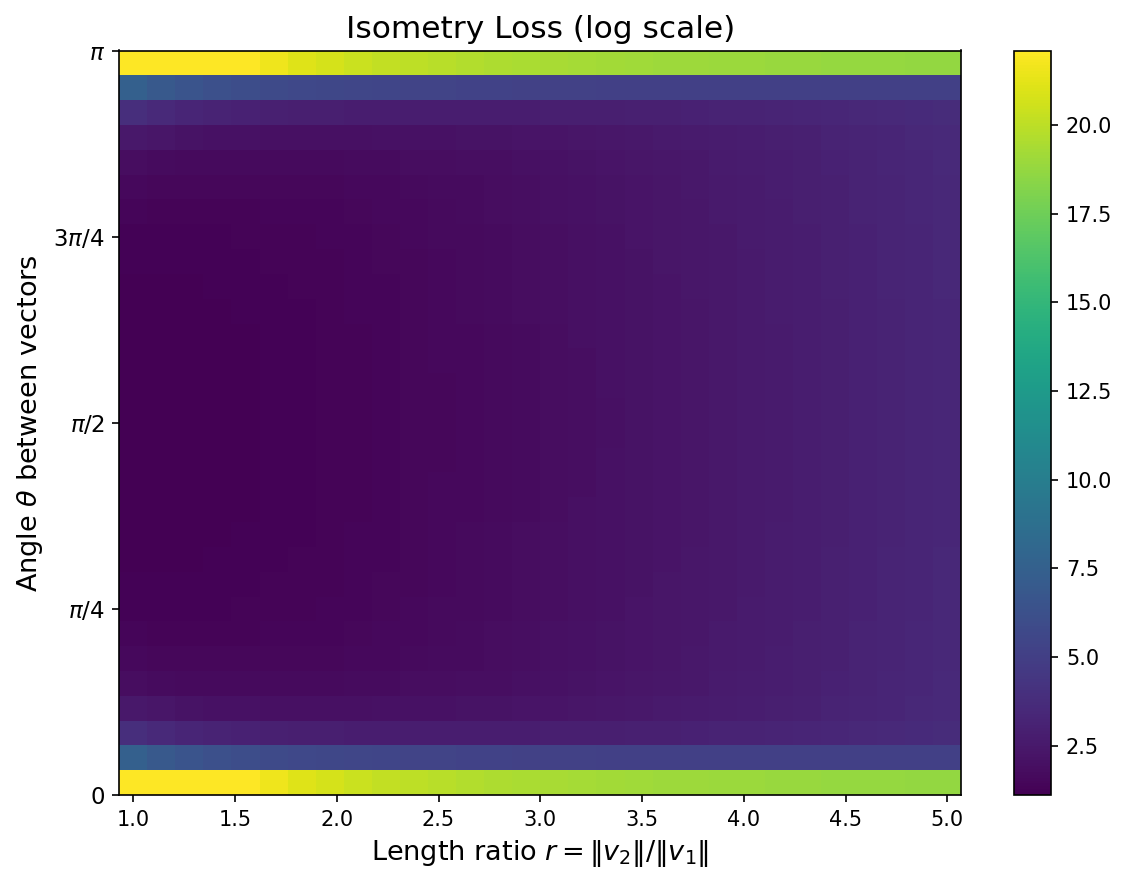
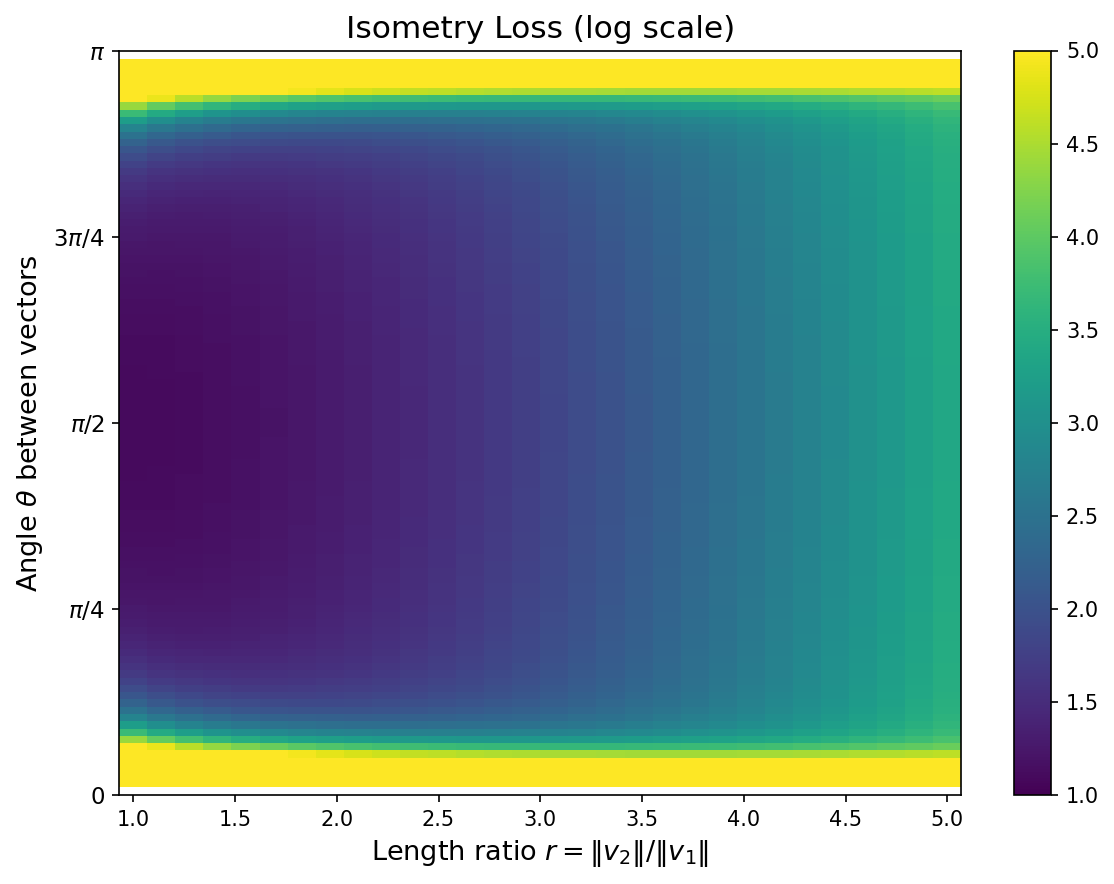
great plot

diff --git a/isometry_pursuit/exec/generate_basis_heatmap.py b/isometry_pursuit/exec/generate_basis_heatmap.py
@@ -22,25 +22,33 @@ from isometry_pursuit.transformation import exponential_transformation
 
 def compute_grids(n_ratio=40, n_angle=40, max_ratio=5.0):
     ratios = np.linspace(1.0, max_ratio, n_ratio)
-    # Exclude endpoints 0 and pi to avoid singular matrices
     angles = np.linspace(0.05, np.pi - 0.05, n_angle)
 
     isometry_loss_grid = np.full((n_angle, n_ratio), np.nan)
     group_lasso_grid = np.full((n_angle, n_ratio), np.nan)
+    nuclear_norm_grid = np.full((n_angle, n_ratio), np.nan)
+    distortion_grid = np.full((n_angle, n_ratio), np.nan)
 
     total = n_ratio * n_angle
     with tqdm(total=total, desc="Computing grid") as pbar:
         for i, theta in enumerate(angles):
             for j, r in enumerate(ratios):
-                # Build 2x2 matrix: columns are the two basis vectors
                 X = np.array([[1.0, r * np.cos(theta)],
                                [0.0, r * np.sin(theta)]])
 
-                # Isometry loss (applied to raw X)
+                svs = np.linalg.svd(X, compute_uv=False)
+                sv_max, sv_min = svs[0], svs[1]
+
                 loss_val = isometry_loss(X)
                 isometry_loss_grid[i, j] = loss_val if np.isfinite(loss_val) else np.nan
 
-                # Group lasso norm after basis pursuit on transformed X
+                nuclear_norm_grid[i, j] = sv_max + sv_min
+
+                if sv_min > 1e-14:
+                    distortion_grid[i, j] = sv_max / sv_min
+                else:
+                    distortion_grid[i, j] = np.nan
+
                 try:
                     X_t = exponential_transformation(X)
                     beta, _, obj = group_basis_pursuit(X_t, constraint_violation=0.0)
@@ -50,58 +58,58 @@ def compute_grids(n_ratio=40, n_angle=40, max_ratio=5.0):
 
                 pbar.update(1)
 
-    return ratios, angles, isometry_loss_grid, group_lasso_grid
+    return ratios, angles, isometry_loss_grid, group_lasso_grid, nuclear_norm_grid, distortion_grid
 
 
-def plot_heatmaps(ratios, angles, isometry_loss_grid, group_lasso_grid, output_dir):
+def plot_heatmaps(ratios, angles, isometry_loss_grid, group_lasso_grid, nuclear_norm_grid, distortion_grid, output_dir, log=True):
     os.makedirs(output_dir, exist_ok=True)
 
     angle_labels = [r"$0$", r"$\pi/4$", r"$\pi/2$", r"$3\pi/4$", r"$\pi$"]
     angle_ticks = [0, np.pi / 4, np.pi / 2, 3 * np.pi / 4, np.pi]
+    suffix = "_log" if log else "_raw"
+    scale_label = " (log scale)" if log else ""
 
-    fig, axes = plt.subplots(1, 2, figsize=(16, 6))
+    grids = [
+        (isometry_loss_grid, "Isometry Loss", f"basis_isometry_loss_heatmap{suffix}.png"),
+        (group_lasso_grid, "Group Lasso Norm", f"basis_group_lasso_heatmap{suffix}.png"),
+        (nuclear_norm_grid, "Nuclear Norm", f"basis_nuclear_norm_heatmap{suffix}.png"),
+        (distortion_grid, r"Distortion ($\sigma_{max}/\sigma_{min}$)", f"basis_distortion_heatmap{suffix}.png"),
+    ]
 
-    for ax, grid, title, fname in [
-        (axes[0], isometry_loss_grid, "Isometry Loss", "basis_isometry_loss_heatmap.png"),
-        (axes[1], group_lasso_grid, "Group Lasso Norm", "basis_group_lasso_heatmap.png"),
-    ]:
-        log_grid = np.log1p(grid)
-        vmin = np.nanpercentile(log_grid, 1)
-        vmax = np.nanpercentile(log_grid, 99)
-        im = ax.pcolormesh(
-            ratios, angles, log_grid,
-            cmap="viridis", vmin=vmin, vmax=vmax, shading="auto"
-        )
+    def _prepare(grid):
+        g = np.log1p(grid) if log else grid.copy()
+        finite = g[np.isfinite(g)]
+        vmin = np.percentile(finite, 1)
+        vmax = np.percentile(finite, 99)
+        if log:
+            vmin, vmax = 1.0, 5.0
+        return g, vmin, vmax
+
+    fig, axes = plt.subplots(2, 2, figsize=(16, 12))
+    for ax, (grid, title, _) in zip(axes.flat, grids):
+        g, vmin, vmax = _prepare(grid)
+        im = ax.pcolormesh(ratios, angles, g, cmap="viridis", vmin=vmin, vmax=vmax, shading="auto")
         plt.colorbar(im, ax=ax)
-        ax.set_xlabel(r"Length ratio $r = \|v_2\| / \|v_1\|$", fontsize=13)
-        ax.set_ylabel(r"Angle $\theta$ between vectors", fontsize=13)
-        ax.set_title(title + " (log scale)", fontsize=15)
+        ax.set_xlabel(r"Length ratio $r$", fontsize=12)
+        ax.set_ylabel(r"Angle $\theta$", fontsize=12)
+        ax.set_title(title + scale_label, fontsize=13)
         ax.set_yticks(angle_ticks)
-        ax.set_yticklabels(angle_labels, fontsize=11)
+        ax.set_yticklabels(angle_labels, fontsize=10)
 
     plt.tight_layout()
-    combined_path = os.path.join(output_dir, "basis_heatmaps.png")
+    combined_path = os.path.join(output_dir, f"basis_heatmaps{suffix}.png")
     plt.savefig(combined_path, dpi=150, bbox_inches="tight")
     plt.close()
     print(f"Combined heatmap saved to {combined_path}")
 
-    # Also save individual figures
-    for grid, title, fname in [
-        (isometry_loss_grid, "Isometry Loss", "basis_isometry_loss_heatmap.png"),
-        (group_lasso_grid, "Group Lasso Norm", "basis_group_lasso_heatmap.png"),
-    ]:
+    for grid, title, fname in grids:
         fig, ax = plt.subplots(figsize=(8, 6))
-        log_grid = np.log1p(grid)
-        vmin = np.nanpercentile(log_grid, 1)
-        vmax = np.nanpercentile(log_grid, 99)
-        im = ax.pcolormesh(
-            ratios, angles, log_grid,
-            cmap="viridis", vmin=vmin, vmax=vmax, shading="auto"
-        )
+        g, vmin, vmax = _prepare(grid)
+        im = ax.pcolormesh(ratios, angles, g, cmap="viridis", vmin=vmin, vmax=vmax, shading="auto")
         plt.colorbar(im, ax=ax)
         ax.set_xlabel(r"Length ratio $r = \|v_2\| / \|v_1\|$", fontsize=13)
         ax.set_ylabel(r"Angle $\theta$ between vectors", fontsize=13)
-        ax.set_title(title + " (log scale)", fontsize=15)
+        ax.set_title(title + scale_label, fontsize=15)
         ax.set_yticks(angle_ticks)
         ax.set_yticklabels(angle_labels, fontsize=11)
         plt.tight_layout()
@@ -109,6 +117,54 @@ def plot_heatmaps(ratios, angles, isometry_loss_grid, group_lasso_grid, output_d
         plt.savefig(out, dpi=150, bbox_inches="tight")
         plt.close()
         print(f"Saved {out}")
+
+
+def plot_marginal_theta(ratios, angles, isometry_loss_grid, group_lasso_grid, nuclear_norm_grid, distortion_grid, output_dir, log=True):
+    xticks = [0, np.pi / 4, np.pi / 2, 3 * np.pi / 4, np.pi]
+    xlabels = [r"$0$", r"$\pi/4$", r"$\pi/2$", r"$3\pi/4$", r"$\pi$"]
+    suffix = "_log" if log else "_raw"
+
+    slices = [
+        (isometry_loss_grid[:, 0], "Isometry Loss", "C0", "-"),
+        (group_lasso_grid[:, 0],   "Group Lasso Norm", "C1", "--"),
+        (nuclear_norm_grid[:, 0],  "Nuclear Norm", "C2", "-."),
+        (distortion_grid[:, 0],    r"Distortion ($\sigma_{max}/\sigma_{min}$)", "C3", ":"),
+    ]
+
+    fig, axes = plt.subplots(1, 2, figsize=(15, 5))
+
+    ax = axes[0]
+    for vals, label, color, ls in slices:
+        ax.plot(angles, vals, label=label, linewidth=2, color=color, linestyle=ls)
+    if log:
+        ax.set_yscale("log")
+    ax.set_xlabel(r"Angle $\theta$", fontsize=13)
+    ax.set_ylabel("Value" + (" (log scale)" if log else ""), fontsize=13)
+    ax.set_title(r"Marginal vs $\theta$ at $r = 1$", fontsize=15)
+    ax.set_xticks(xticks)
+    ax.set_xticklabels(xlabels, fontsize=11)
+    ax.legend(fontsize=11)
+
+    gl_slice = group_lasso_grid[:, 0]
+    ax = axes[1]
+    for vals, label, color, ls in slices:
+        if label != "Group Lasso Norm":
+            ax.plot(angles, vals / gl_slice, label=f"{label} / GL Norm", linewidth=2, color=color, linestyle=ls)
+    if log:
+        ax.set_yscale("log")
+    ax.set_xlabel(r"Angle $\theta$", fontsize=13)
+    ax.set_ylabel("Ratio to Group Lasso Norm" + (" (log scale)" if log else ""), fontsize=12)
+    ax.set_title(r"Ratio to Group Lasso Norm at $r = 1$", fontsize=15)
+    ax.set_xticks(xticks)
+    ax.set_xticklabels(xlabels, fontsize=11)
+    ax.axhline(1.0, color="gray", linestyle=":", linewidth=1.5, label="ratio = 1")
+    ax.legend(fontsize=11)
+
+    plt.tight_layout()
+    out = os.path.join(output_dir, f"basis_marginal_theta{suffix}.png")
+    plt.savefig(out, dpi=150, bbox_inches="tight")
+    plt.close()
+    print(f"Saved {out}")
 
 
 def main():
@@ -121,10 +177,12 @@ def main():
     parser.add_argument("--max-ratio", type=float, default=5.0, help="Max length ratio")
     args = parser.parse_args()
 
-    ratios, angles, isometry_loss_grid, group_lasso_grid = compute_grids(
+    ratios, angles, isometry_loss_grid, group_lasso_grid, nuclear_norm_grid, distortion_grid = compute_grids(
         n_ratio=args.n_ratio, n_angle=args.n_angle, max_ratio=args.max_ratio
     )
-    plot_heatmaps(ratios, angles, isometry_loss_grid, group_lasso_grid, args.output_dir)
+    for log in (True, False):
+        plot_heatmaps(ratios, angles, isometry_loss_grid, group_lasso_grid, nuclear_norm_grid, distortion_grid, args.output_dir, log=log)
+        plot_marginal_theta(ratios, angles, isometry_loss_grid, group_lasso_grid, nuclear_norm_grid, distortion_grid, args.output_dir, log=log)
 
 
 if __name__ == "__main__":
